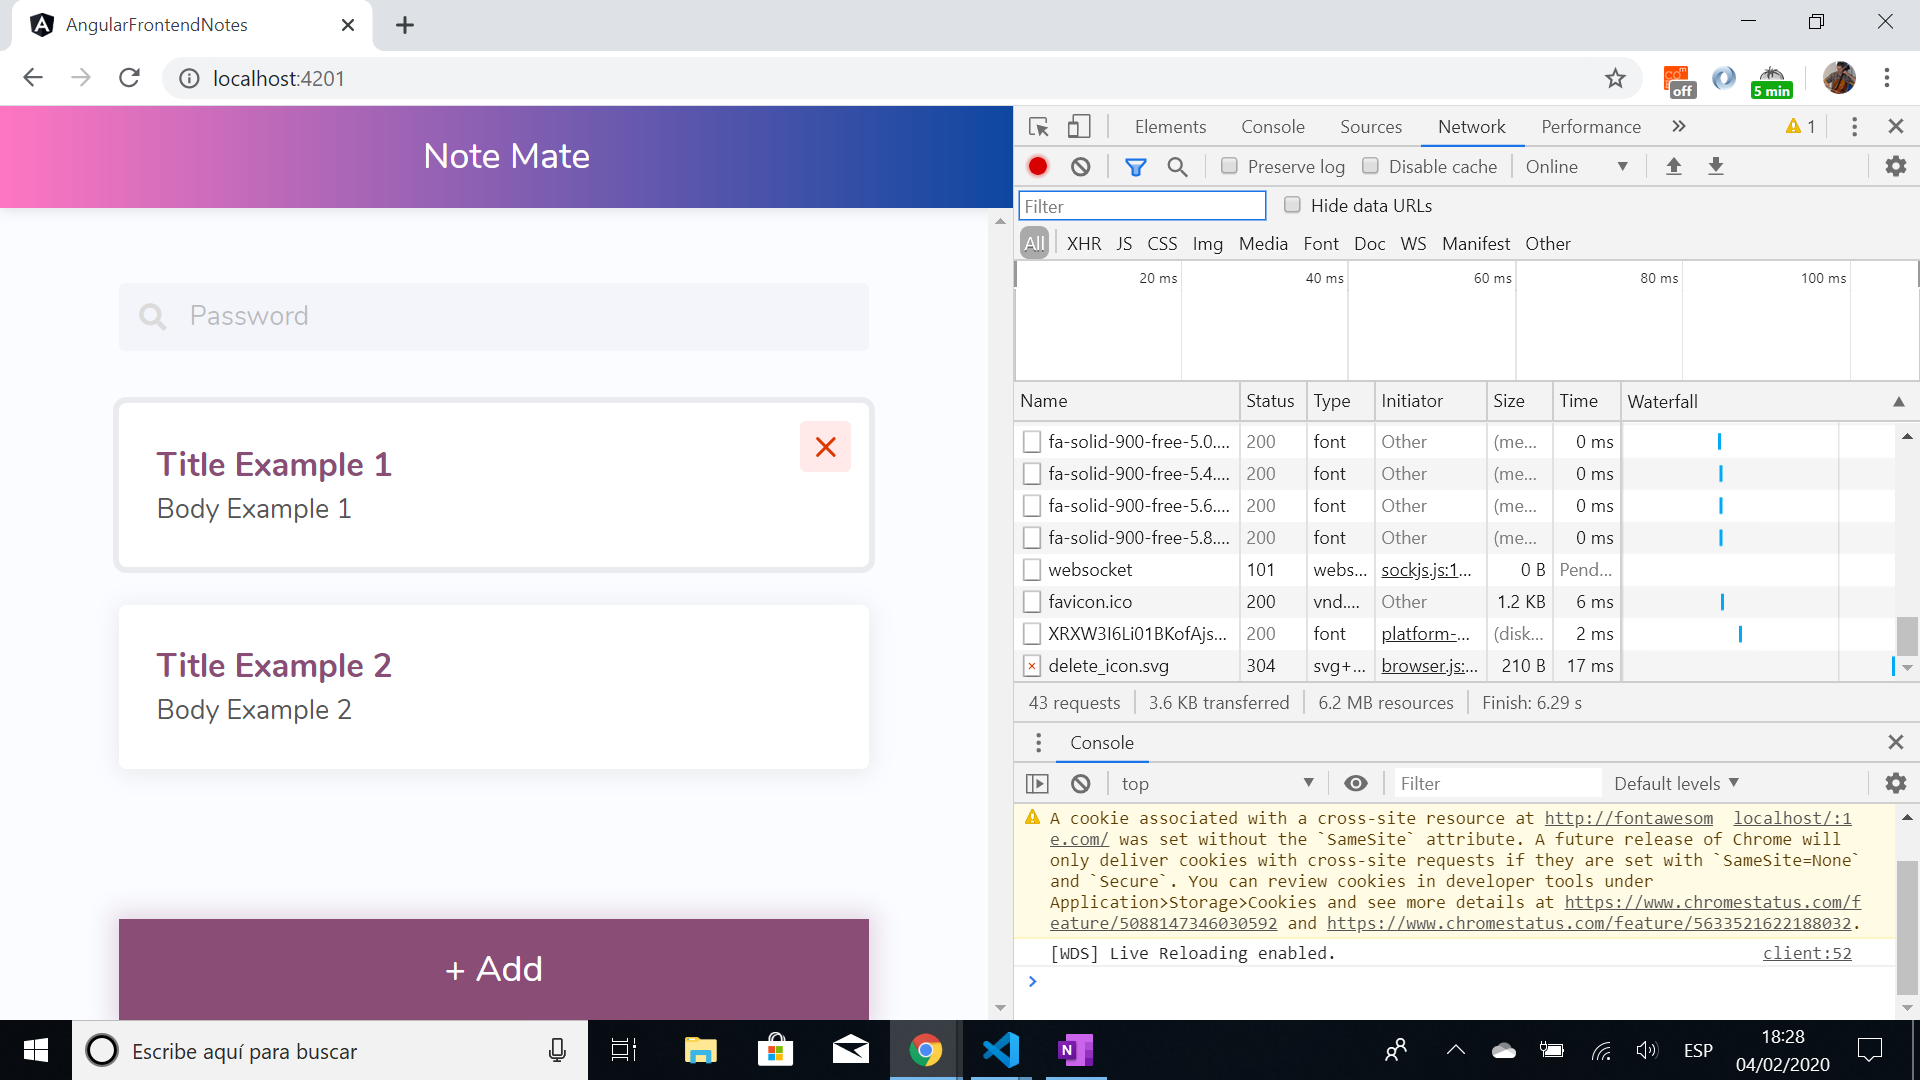
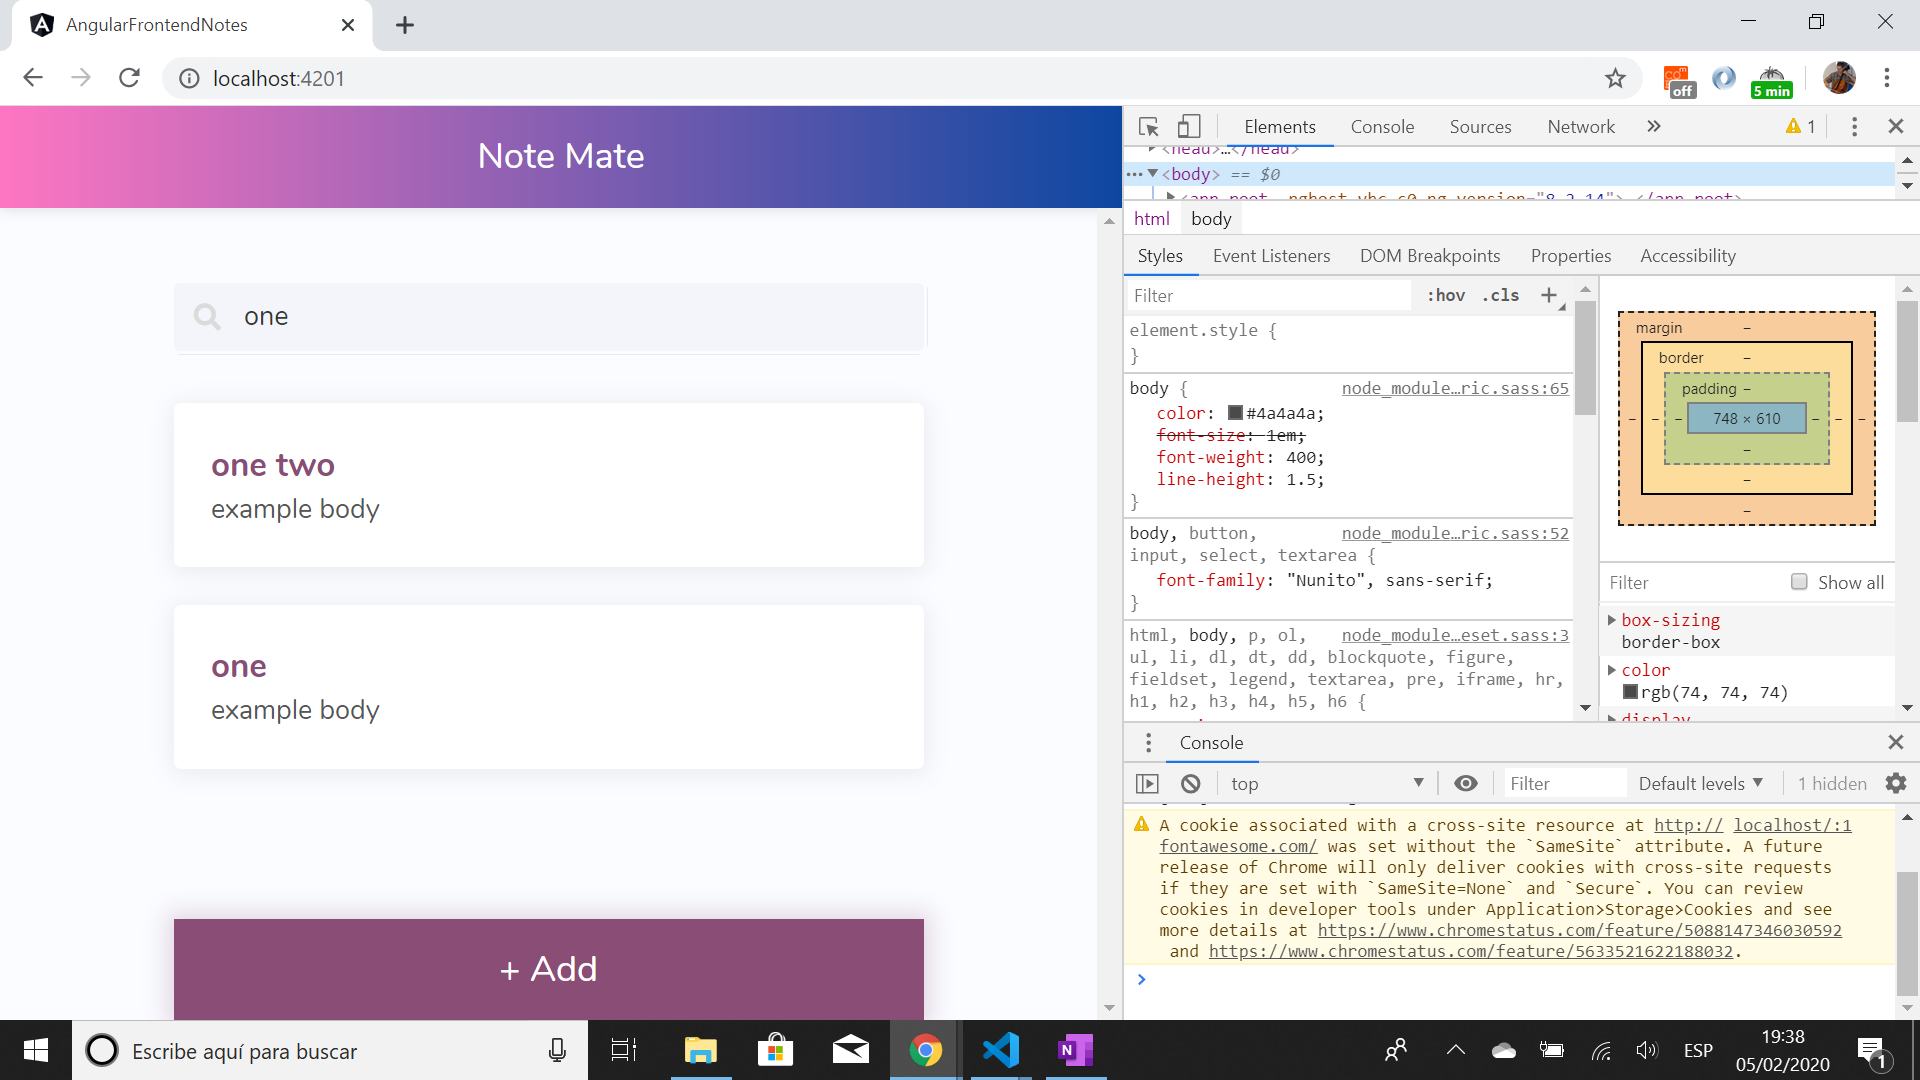
final tutorial section 5 completed, readme updated

diff --git a/src/app/pages/notes-list/notes-list.component.ts b/src/app/pages/notes-list/notes-list.component.ts
@@ -1,4 +1,4 @@
-import { Component, OnInit } from '@angular/core';
+import { Component, OnInit, ViewChild, ElementRef } from '@angular/core';
 import { Note } from 'src/app/shared/note.model';
 import { NotesService } from 'src/app/shared/notes.service';
 import { trigger, transition, style, animate, query, stagger } from '@angular/animations';
@@ -81,17 +81,95 @@ import { trigger, transition, style, animate, query, stagger } from '@angular/an
 })
 export class NotesListComponent implements OnInit {
 
-  notes: Note[] = new Array<Note>();
+	notes: Note[] = new Array<Note>();
+	filteredNotes: Note[] = new Array<Note>();
+
+	@ViewChild('filterInput', {static: false}) filterElementRef: ElementRef<HTMLInputElement>;
 
   constructor(private notesService: NotesService) { }
 
   ngOnInit() {
     // retrieve all notes using NotesService
-    this.notes = this.notesService.getAll();
+		this.notes = this.notesService.getAll();
+		// this.filteredNotes = this.notesService.getAll();
+		this.filter('');
   }
 
-  deleteNote(id: number) {
-    this.notesService.delete(id);
-  }
+  deleteNote(note: Note) {
+		let noteId = this.notesService.getId(note);
+		this.notesService.delete(noteId);
+		this.filter(this.filterElementRef.nativeElement.value);
+	}
+	
+	generateNoteURL(note: Note) {
+		let noteId = this.notesService.getId(note);
+		return noteId;
+	}
+
+  filter(query: string) {
+		query = query.toLowerCase().trim();
+		let allResults: Note[] = new Array<Note>();
+		let terms: string[] = query.split(' '); // split on spaces
+		terms = this.removeDuplicates(terms);
+		// compile all relevent results into the allResults array
+		terms.forEach(term => {
+			let results: Note[] = this.releventNotes(term);
+			// append results to the allResults array
+			allResults = [...allResults, ...results];
+		});
+
+		// remove duplicates from allResults array
+		let uniqueResults = this.removeDuplicates(allResults);
+		this.filteredNotes = uniqueResults;
+		this.sortByRelevancy(allResults);
+	}
+	
+	// Use ES6 sets - only distinct elements allowed in
+	removeDuplicates(arr: Array<any>) : Array<any> {
+		let uniqueResults: Set<any> = new Set<any>();
+		// loop through the input add add the items to the set
+		arr.forEach(e => uniqueResults.add(e));
+
+		return Array.from(uniqueResults);
+	}
+
+	releventNotes(query: string) : Array<Note> {
+		query = query.toLowerCase().trim();
+		let releventNotes = this.notes.filter(note => {
+			if (note.title && note.title.toLowerCase().includes(query)) {
+				return true;
+			}
+			if (note.body && note.body.toLocaleLowerCase().includes(query)) {
+				return true;
+			}
+			return false;
+		})
+
+		return releventNotes;
+	}
+
+	sortByRelevancy(searchResults) {
+		let noteCountObj: Object = {};
+		
+		searchResults.forEach(note => {
+			let noteId = this.notesService.getId(note);
+
+			if (noteCountObj[noteId]) {
+				noteCountObj[noteId] += 1;
+			} else {
+				noteCountObj[noteId] = 1;
+			}
+		})
+
+		this.filteredNotes = this.filteredNotes.sort((a: Note, b: Note) => {
+			let aId = this.notesService.getId(a);
+			let bId = this.notesService.getId(b);
+
+			let aCount = noteCountObj[aId];
+			let bCount = noteCountObj[bId];
+
+			return bCount - aCount;
+		});
+	}
 
 }

diff --git a/src/app/note-card/note-card.component.ts b/src/app/note-card/note-card.component.ts
@@ -19,7 +19,7 @@ export class NoteCardComponent implements OnInit {
   constructor(private renderer: Renderer2) { }
 
   ngOnInit() {
-    // work  out if there is a text overflow then if not hide the truncator
+    // work out if there is a text overflow then if not hide the truncator
     // let style = window.getComputedStyle(this.bodyText.nativeElement, null);
     // let viewableHeight = parseInt(style.getPropertyValue("height"), 10);
 
@@ -27,7 +27,7 @@ export class NoteCardComponent implements OnInit {
     //   // if this is a text overflow, show the fade out truncator
     //   this.renderer.setStyle(this.truncator.nativeElement, 'display', 'block');
     // } else {
-    //   // if this is no text overflow, dont show the fade out truncator
+    //   // if this is no text overflow, don't show the fade out truncator
     //   this.renderer.setStyle(this.truncator.nativeElement, 'display', 'none');
     // }
   }

diff --git a/src/app/pages/notes-list/notes-list.component.html b/src/app/pages/notes-list/notes-list.component.html
@@ -3,7 +3,12 @@
   <div class="search-bar-container">
 		<div class="field">
 			<p class="control has-icons-left">
-				<input class="input" type="password" placeholder="Password">
+				<input
+					#filterInput
+					class="input"
+					type="text"
+					(keyup)="filter($event.target.value)"
+					placeholder="Filter">
 				<span class="icon is-small is-left">
 					<i class="fas fa-search"></i>
 				</span>
@@ -13,10 +18,10 @@
 
 	<div class="notes-list" [@listAnim]>
 		<app-note-card
-			*ngFor="let note of notes; index as i"
-			[link]="i"
+			*ngFor="let note of filteredNotes"
+			[link]="generateNoteURL(note)"
 			[@itemAnim]
-			(delete)="deleteNote(i)"
+			(delete)="deleteNote(note)"
 			[title]="note.title"
 			[body]="note.body">
 		</app-note-card>

diff --git a/src/app/pages/note-details/note-details.component.ts b/src/app/pages/note-details/note-details.component.ts
@@ -22,7 +22,6 @@ export class NoteDetailsComponent implements OnInit {
   ) { }
 
   ngOnInit() {
-
     // new note or editing existing one?
     this.route.params.subscribe((params: Params) => {
       this.note = new Note();
@@ -34,7 +33,6 @@ export class NoteDetailsComponent implements OnInit {
         this.new = true;
       }
     })
-
   }
 
   onSubmit(form: NgForm) {
@@ -45,7 +43,6 @@ export class NoteDetailsComponent implements OnInit {
       this.notesService.update(this.noteId, form.value.title, form.value.body);
     }
     this.router.navigateByUrl('/');
-
   }
 
   cancel() {

diff --git a/README.md b/README.md
@@ -1,8 +1,10 @@
 # Angular Frontend Notes
 
-* Angular 8 tutorial app to allow user to add notes to a notes list. Notes can be viewed and deleted from this list.
+* Angular 8 tutorial app to allow user to add notes to a notes list. Notes can be viewed and deleted from this list. Includes a filter so user can search for key words and filtered results will order themselves in terms of relevancy.
 
 * Clicking on a note navigates to that note where the note can be edited.
+
+* All code by [Devstackr](https://www.youtube.com/channel/UCbwsS1m4Hib6R-9F1alus_A/featured) from Youtube [tutorial series]([Project Demo & Introduction - [1] Build a Notes App w/ Angular](https://www.youtube.com/watch?v=dlXEeOk-MrI&t=7s)).
 
 ## Table of contents
 
@@ -17,7 +19,7 @@
 
 ## General info
 
-* 7 part Youtube tutorial series.
+* 5 part Youtube tutorial series. 
 
 ## Screenshots
 
@@ -33,23 +35,35 @@
 
 ## Setup
 
-* To start the server on _localhost://8100_ type: 'ng serve'
+* To start the server on _localhost://4200_ type: 'ng serve'
 
 ## Code Examples
 
-* 
+* on initialisation of `note-details.component.ts` check if note is new
 
 ```typescript
-
+ngOnInit() {
+  // new note or editing existing one?
+  this.route.params.subscribe((params: Params) => {
+    this.note = new Note();
+    if (params.id) {
+      this.note = this.notesService.get(params.id);
+      this.noteId = params.id;
+      this.new = false;
+    } else {
+      this.new = true;
+    }
+  })
+}
 ```
 
 ## Features
 
-* Bulma
+* Bulma CSS styles used for the first time.
 
 ## Status & To-do list
 
-* Status: Video 3 of 7 completed - frontend only so far. Backend to be added later.
+* Status: Video 5 of 5 completed - frontend only so far. Backend to be added later.
 
 * To-do: Fix `issue with TypeError: Cannot read property 'nativeElement' of undefined`. complete tutorial.
 
@@ -59,7 +73,10 @@
 * [Creating the UI (Angular) - [2] Build a Notes App w/ Angular](https://www.youtube.com/watch?v=akUcKvEsG8w)
 * [Creating the Note Details Page - [3] Build a Notes App w/ Angular](https://www.youtube.com/watch?v=Rghqrp59XJA)
 * [Adding Animations to Note Cards | Angular Animations - [4] Build a Notes App w/ Angular](https://www.youtube.com/watch?v=0DnL5awucWE)
+* [Searching Notes - [5] Build a Notes App w/ Angular](https://www.youtube.com/watch?v=vWt9WvjUfRA)
+
 * [Devstackr: Github repo](https://github.com/Devstackr/basic-notes-app-mean-stack)
+* [Maya Shavin: Medium article: ES6 — Set vs Array — What and when?](https://medium.com/front-end-weekly/es6-set-vs-array-what-and-when-efc055655e1a)
 
 ## Contact
 
